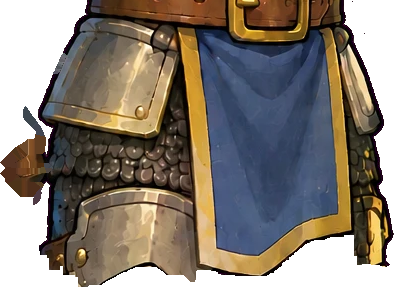
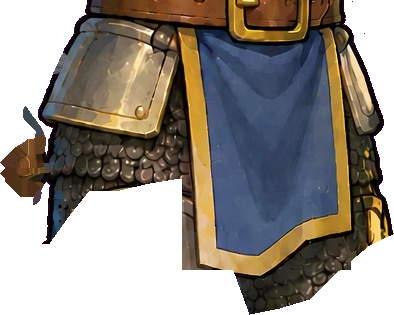
Knight legs cut along hand-drawn seam above the thigh plates; tabard stays on torso

diff --git a/tools/anim_rig.py b/tools/anim_rig.py
@@ -72,15 +72,22 @@ def _seam(a, vis, y_mid, up, down):
     return ndimage.median_filter(seam, size=41, mode="nearest").astype(int)
 
 
-def split(a, t, hem, belt):
+def split(a, t, hem, belt, leg_seam=None, keep_torso=None):
     H, W = a.shape[:2]
     yy, xx = np.mgrid[0:H, 0:W]
     vis = a[..., 3] > 0
     arm_n = _arm_mask(a, vis, xx, yy, t, "n")
     arm_f = _arm_mask(a, vis, xx, yy, t, "f") & ~arm_n
     leg_top = max(t["leg_top"], hem)
-    hem_seam = _seam(a, vis, leg_top, 45, 45)[None, :]            # follows the hem / plate edge
+    if leg_seam:   # hand-drawn cut line (x,y points), e.g. above the knight's thigh plates
+        px, py = zip(*leg_seam)
+        hem_seam = np.interp(np.arange(W), px, py).astype(int)[None, :]
+    else:
+        hem_seam = _seam(a, vis, leg_top, 45, 45)[None, :]        # follows the hem / plate edge
     legs = vis & (yy >= hem_seam) & ~arm_n & ~arm_f
+    if keep_torso:  # tabard / front panel stays on the torso above its hem
+        x0, x1, y1 = keep_torso
+        legs &= ~((xx >= x0) & (xx <= x1) & (yy < y1))
     torso = vis & ~legs & ~arm_n & ~arm_f
     near = xx < t["leg_split_x"]
     k = t["knee_y"]

diff --git a/tools/build_preview.py b/tools/build_preview.py
@@ -368,7 +368,7 @@ def main():
             entry["back"] = save_part(back, f"body_{bid}_back", True)
         cfg = ANIM["outfits"].get(bid)
         if cfg and tpl in ANIM["templates"]:
-            pieces, anchors = anim_rig.split(front, ANIM["templates"][tpl], cfg["hem"], cfg["belt"])
+            pieces, anchors = anim_rig.split(front, ANIM["templates"][tpl], cfg["hem"], cfg["belt"], cfg.get("leg_seam"), cfg.get("keep_torso"))
             entry["anim"] = {"profile": cfg["profile"], "anchors": anchors,
                              "pieces": {k: save_part(v, f"anim_{bid}_{k}", True, min_skin=1500)  # stray greenish armour px are not skin
                                         for k, v in pieces.items() if (v[..., 3] > 0).any()}}
